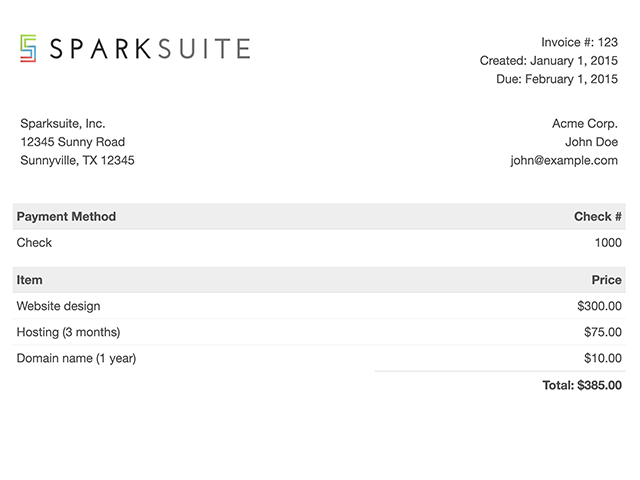
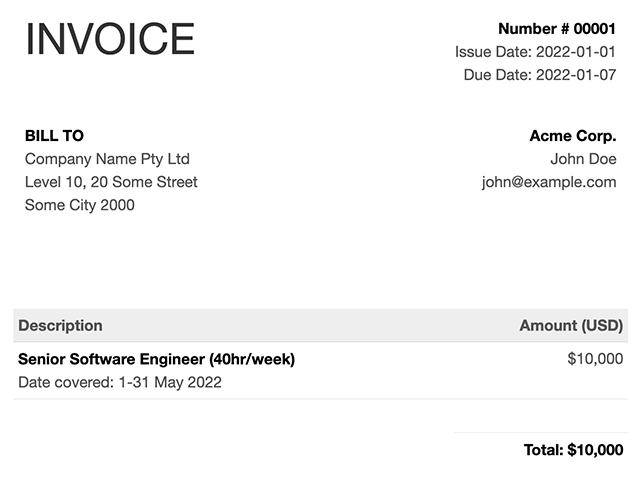
updated templates page

diff --git a/priv/static/invoice_templates/basic/invoice.html b/priv/static/invoice_templates/basic/invoice.html
@@ -1,186 +1,185 @@
 <!DOCTYPE html>
 <html>
-	<head>
-		<meta charset="utf-8" />
-		<title>A simple, clean, and responsive HTML invoice template</title>
-		<style>
-			.invoice-box {
-				max-width: 800px;
-				margin: auto;
-				padding: 30px;
-				border: 1px solid #eee;
-				box-shadow: 0 0 10px rgba(0, 0, 0, 0.15);
-				font-size: 16px;
-				line-height: 24px;
-				font-family: 'Helvetica Neue', 'Helvetica', Helvetica, Arial, sans-serif;
-				color: #555;
-			}
+<head>
+	<meta charset="utf-8" />
+	<title>Basic invoice template</title>
 
-			.invoice-box table {
-				width: 100%;
-				line-height: inherit;
-				text-align: left;
-			}
+	<style>
+	.invoice-box {
+		max-width: 640px;
+		margin: auto;
+		padding: 30px;
+		font-size: 16px;
+		line-height: 24px;
+		font-family: "Helvetica Neue", "Helvetica", Helvetica, Arial, sans-serif;
+		color: #555;
+	}
 
-			.invoice-box table td {
-				padding: 5px;
-				vertical-align: top;
-			}
+	.invoice-box table {
+		width: 100%;
+		line-height: inherit;
+		text-align: left;
+	}
 
-			.invoice-box table tr td:nth-child(2) {
-				text-align: right;
-			}
+	.invoice-box table td {
+		padding: 5px;
+		vertical-align: top;
+	}
 
-			.invoice-box table tr.top table td {
-				padding-bottom: 20px;
-			}
+	.invoice-box table tr td:nth-child(2) {
+		text-align: right;
+	}
 
-			.invoice-box table tr.top table td.title {
-				font-size: 45px;
-				line-height: 45px;
-				color: #333;
-			}
+	.invoice-box table tr.top table td {
+		padding-bottom: 20px;
+	}
 
-			.invoice-box table tr.information table td {
-				padding-bottom: 40px;
-			}
+	.invoice-box table tr.top table td.title {
+		font-size: 45px;
+		line-height: 45px;
+		color: #333;
+	}
 
-			.invoice-box table tr.heading td {
-				background: #eee;
-				border-bottom: 1px solid #ddd;
-				font-weight: bold;
-			}
+	.invoice-box table tr.information table td {
+		padding-bottom: 40px;
+	}
 
-			.invoice-box table tr.details td {
-				padding-bottom: 20px;
-			}
+	.invoice-box table tr.heading td {
+		background: #eee;
+		border-bottom: 1px solid #ddd;
+		font-weight: bold;
+	}
 
-			.invoice-box table tr.item td {
-				border-bottom: 1px solid #eee;
-			}
+	.invoice-box table tr.details td {
+		padding-bottom: 20px;
+	}
 
-			.invoice-box table tr.item.last td {
-				border-bottom: none;
-			}
+	.invoice-box table tr.item td {
+		border-bottom: 1px solid #eee;
+	}
 
-			.invoice-box table tr.total td:nth-child(2) {
-				border-top: 2px solid #eee;
-				font-weight: bold;
-			}
+	.invoice-box table tr.item.last td {
+		border-bottom: none;
+	}
 
-			@media only screen and (max-width: 600px) {
-				.invoice-box table tr.top table td {
-					width: 100%;
-					display: block;
-					text-align: center;
-				}
+	.invoice-box table tr.total td:nth-child(2) {
+		border-top: 1px solid #eee;
+		font-weight: bold;
+	}
 
-				.invoice-box table tr.information table td {
-					width: 100%;
-					display: block;
-					text-align: center;
-				}
-			}
+	@media only screen and (max-width: 600px) {
+		.invoice-box table tr.top table td {
+		width: 100%;
+		display: block;
+		text-align: center;
+		}
 
-			/** RTL **/
-			.invoice-box.rtl {
-				direction: rtl;
-				font-family: Tahoma, 'Helvetica Neue', 'Helvetica', Helvetica, Arial, sans-serif;
-			}
+		.invoice-box table tr.information table td {
+		width: 100%;
+		display: block;
+		text-align: center;
+		}
+	}
+	</style>
+</head>
+<body>
+	<div class="invoice-box">
+	<table cellpadding="0" cellspacing="0">
+		<tbody>
+		<tr class="top">
+			<td colspan="2">
+			<table>
+				<tbody>
+				<tr>
+					<td class="title">INVOICE</td>
 
-			.invoice-box.rtl table {
-				text-align: right;
-			}
-
-			.invoice-box.rtl table tr td:nth-child(2) {
-				text-align: left;
-			}
-		</style>
-	</head>
-
-	<body>
-		<div class="invoice-box">
-			<table cellpadding="0" cellspacing="0">
-				<tr class="top">
-					<td colspan="2">
-						<table>
-							<tr>
-								<td class="title">
-									<img src="https://www.sparksuite.com/images/logo.png" style="width: 100%; max-width: 300px" />
-								</td>
-
-								<td>
-									Invoice #: 123<br />
-									Created: January 1, 2015<br />
-									Due: February 1, 2015
-								</td>
-							</tr>
-						</table>
+					<td>
+					<b><font color="#000000"> Number # 00001</font></b><br />
+					Issue Date: 2022-01-01<br />
+					Due Date: 2022-01-07<br />
 					</td>
 				</tr>
-
-				<tr class="information">
-					<td colspan="2">
-						<table>
-							<tr>
-								<td>
-									Sparksuite, Inc.<br />
-									12345 Sunny Road<br />
-									Sunnyville, CA 12345
-								</td>
-
-								<td>
-									Acme Corp.<br />
-									John Doe<br />
-									john@example.com
-								</td>
-							</tr>
-						</table>
-					</td>
-				</tr>
-
-				<tr class="heading">
-					<td>Payment Method</td>
-
-					<td>Check #</td>
-				</tr>
-
-				<tr class="details">
-					<td>Check</td>
-
-					<td>1000</td>
-				</tr>
-
-				<tr class="heading">
-					<td>Item</td>
-
-					<td>Price</td>
-				</tr>
-
-				<tr class="item">
-					<td>Website design</td>
-
-					<td>$300.00</td>
-				</tr>
-
-				<tr class="item">
-					<td>Hosting (3 months)</td>
-
-					<td>$75.00</td>
-				</tr>
-
-				<tr class="item last">
-					<td>Domain name (1 year)</td>
-
-					<td>$10.00</td>
-				</tr>
-
-				<tr class="total">
-					<td></td>
-
-					<td>Total: $385.00</td>
-				</tr>
+				</tbody>
 			</table>
-		</div>
-	</body>
-</html>
+			</td>
+		</tr>
+
+		<tr class="information">
+			<td colspan="2">
+			<table>
+				<tbody>
+				<tr>
+					<td>
+					<b>
+						<font color="#000000">BILL TO<br /></font>
+					</b>
+					Company Name Pty Ltd<br />
+					Level 10, 20 Some Street <br />
+					Some City 2000<br />
+					</td>
+
+					<td>
+					<b><font color="#000000">Acme Corp.</font></b><br />
+					John Doe<br />
+					john@example.com
+					</td>
+				</tr>
+				</tbody>
+			</table>
+			</td>
+		</tr>
+		<tr class="details">
+			<td><br /></td>
+
+			<td></td>
+		</tr>
+		<tr class="heading">
+			<td>Description</td>
+
+			<td>Amount (USD)</td>
+		</tr>
+
+		<tr class="item">
+			<td>
+			<font color="#000000"><b style="">Senior Software Engineer (40hr/week)</b><br /></font>Date covered: 1-31 May 2022
+			</td>
+
+			<td>$10,000</td>
+		</tr>
+
+		<tr class="item last">
+			<td></td>
+			<td><br /></td>
+		</tr>
+		<tr class="total">
+			<td>
+			<p><br /></p>
+			</td>
+
+			<td><font color="#000000">Total: $10,000</font></td>
+		</tr>
+		</tbody>
+	</table>
+	</div>
+	<div class="invoice-box">
+	<table cellpadding="0" cellspacing="0">
+		<tbody>
+		<tr class="total">
+			<td>
+			<b>
+				<font color="#000000"><u>Payment Info</u><br /></font><font color="#636363">Bank Name</font>
+			</b>
+			<font color="#636363">
+				:&nbsp;Some Bank<br />
+				<b>Account Holder Name</b>: John Doe<br />
+				<b>Account Number</b>: 123456789<br />
+				<b>Swift Code</b>: CDFRRKFI<br />
+				<b>Bank Address</b>: 89-16 Some Address, NY 10000, United States
+			</font>
+			<br />
+			</td>
+		</tr>
+		</tbody>
+	</table>
+	</div>
+</body>
